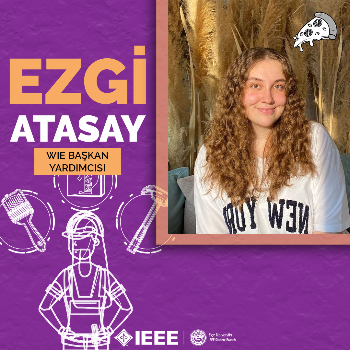
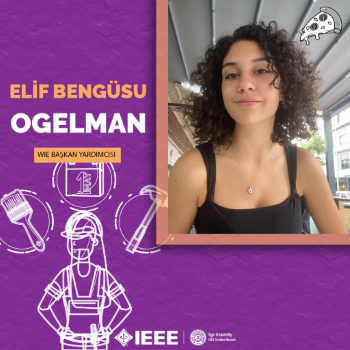
Update idari kurul pages

diff --git a/src/components/committees/CommitteeCard.js b/src/components/committees/CommitteeCard.js
@@ -2,7 +2,7 @@ import React from 'react';
 import "bootstrap/dist/css/bootstrap.css";
 
 const CommitteeCard = ({ props }) => {
- 
+  console.log(props);
   return (
     <div className="col col-lg-4 deneme">
       <div className="card h-100" style={{borderWidth:  2,  borderStyle:  'solid', borderColor: 'black' }}>
